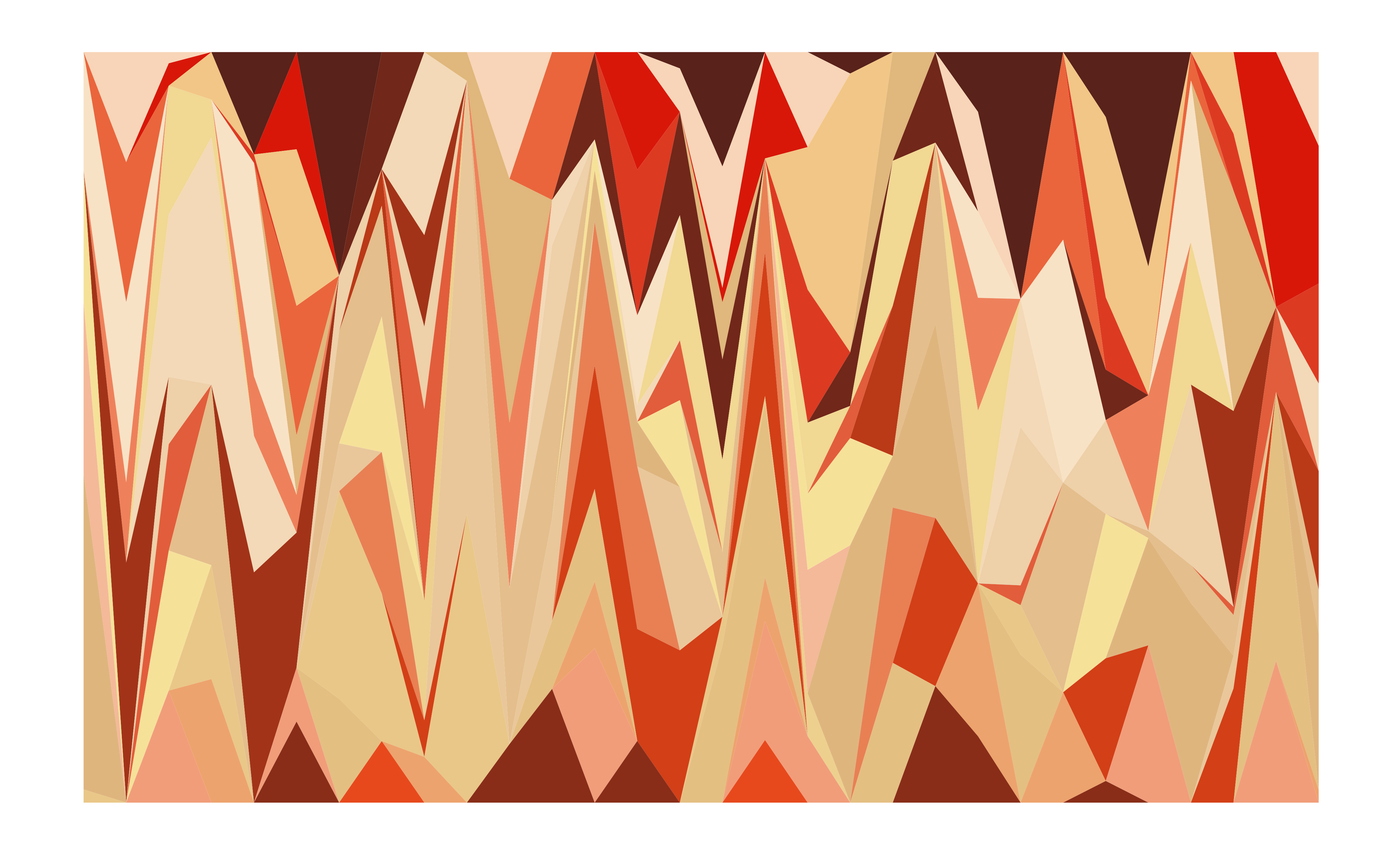
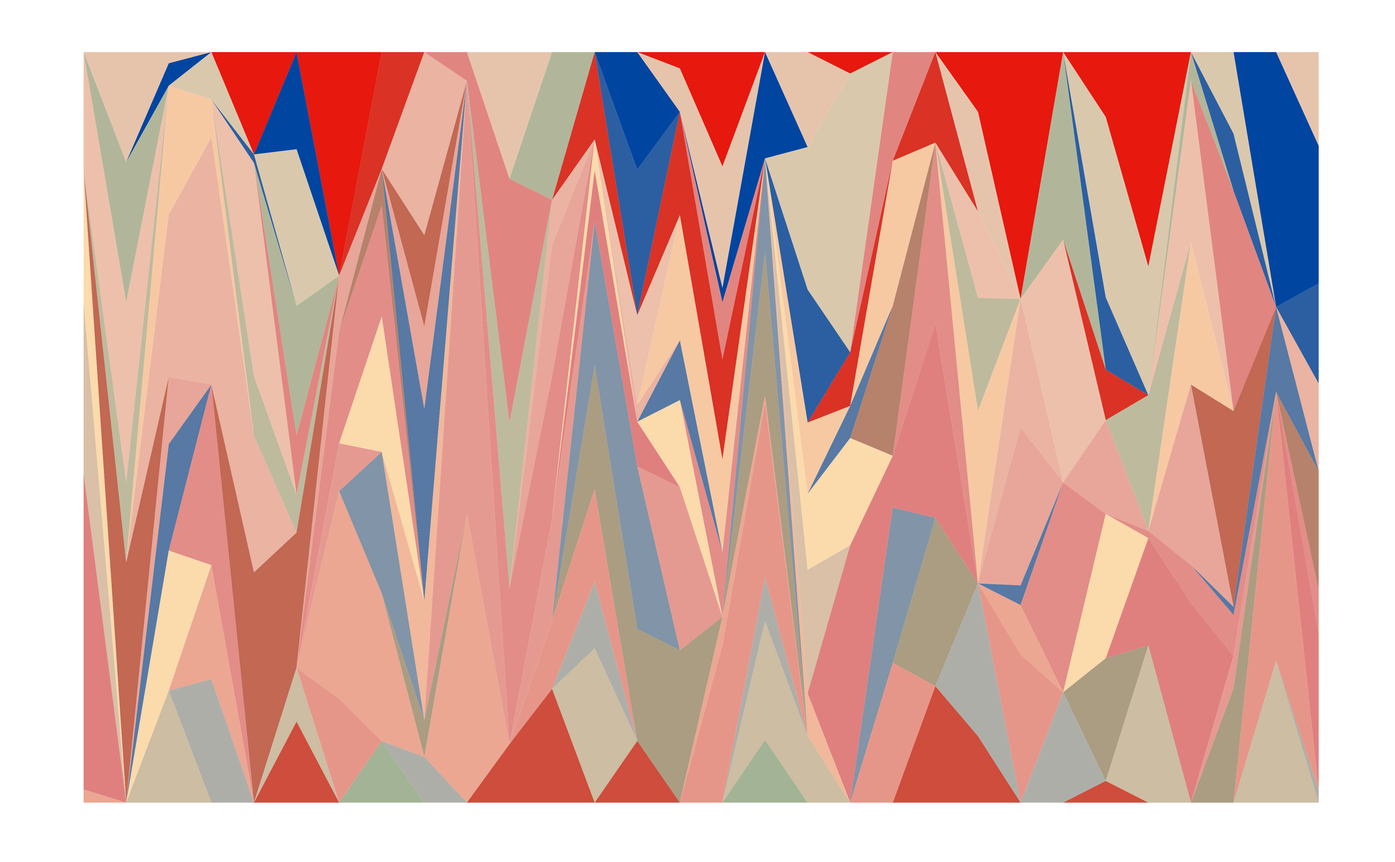
palettes

diff --git a/docs/articles/Introduction_to_R_series.html b/docs/articles/Introduction_to_R_series.html
@@ -96,8 +96,12 @@
 <div class="section level2">
 <h2 id="brief-explanation">Brief explanation<a class="anchor" aria-label="anchor" href="#brief-explanation"></a>
 </h2>
-<p>We can select until 3 palette families at the moment: <code>palette_netflyx</code>, <code>palette_anime</code>,<code>palette_peru</code>. Each family is a list of palette from series. Each palette in this package have a total of 6 colors. With the function <code>serie_palette</code> we can select a palette following this entry:</p>
-<p><code>serie_palette( enter name, palette of preference, number of colors, type discrete or continous )</code></p>
+<p>We can select until 3 palette families at the moment: <code>palette_netflyx</code>, <code>palette_anime</code>,<code>palette_peru</code>. Each family is a list of palette from series. Each palette in this package have a total of 6 colors. In brief the total list of palettes avaliable per family is :</p>
+<p><img src="Introduction_to_R_series_files/figure-html/unnamed-chunk-2-1.png" width="2187.5" style="display: block; margin: auto;"></p>
+<p><img src="Introduction_to_R_series_files/figure-html/unnamed-chunk-3-1.png" width="2187.5" style="display: block; margin: auto;"></p>
+<p><img src="Introduction_to_R_series_files/figure-html/unnamed-chunk-4-1.png" width="2187.5" style="display: block; margin: auto;"></p>
+<p>With the function <code>serie_palette</code> we can select a palette from a specific family following this entry:</p>
+<p><code>serie_palette( enter name, palette of preference, palette family ,number of colors, type discrete or continous )</code></p>
 <p>Let’s see some examples using ggplot2 based on <a href="https://r-graph-gallery.com/" class="external-link">the R Graph Gallery</a> examples.</p>
 <hr>
 </div>
@@ -128,7 +132,7 @@
   <span class="fu"><a href="https://ggplot2.tidyverse.org/reference/geom_path.html" class="external-link">geom_line</a></span><span class="op">(</span><span class="fu"><a href="https://ggplot2.tidyverse.org/reference/aes.html" class="external-link">aes</a></span><span class="op">(</span>color <span class="op">=</span> <span class="va">index</span>,x<span class="op">=</span><span class="va">time</span>,y<span class="op">=</span><span class="va">price</span><span class="op">)</span>, size <span class="op">=</span> <span class="fl">1</span><span class="op">)</span> <span class="op">+</span>
   <span class="fu"><a href="../reference/scale_color_rseries.html">scale_color_rseries</a></span><span class="op">(</span>palette <span class="op">=</span> <span class="st">"Lupin"</span>, palette_family <span class="op">=</span> <span class="va">palette_netflyx</span><span class="op">)</span> <span class="op">+</span>
   <span class="fu"><a href="https://ggplot2.tidyverse.org/reference/ggtheme.html" class="external-link">theme_minimal</a></span><span class="op">(</span><span class="op">)</span></code></pre></div>
-<p><img src="Introduction_to_R_series_files/figure-html/unnamed-chunk-2-1.png" width="2187.5" style="display: block; margin: auto;"></p>
+<p><img src="Introduction_to_R_series_files/figure-html/unnamed-chunk-6-1.png" width="2187.5" style="display: block; margin: auto;"></p>
 </div>
 <div class="section level6">
 <h6 id="a-classic-boxplot">A classic boxplot<a class="anchor" aria-label="anchor" href="#a-classic-boxplot"></a>
@@ -152,7 +156,7 @@
     <span class="op">)</span> <span class="op">+</span>
     <span class="fu"><a href="https://ggplot2.tidyverse.org/reference/labs.html" class="external-link">ggtitle</a></span><span class="op">(</span><span class="st">"A classic boxplot"</span><span class="op">)</span> <span class="op">+</span>
     <span class="fu"><a href="https://ggplot2.tidyverse.org/reference/labs.html" class="external-link">xlab</a></span><span class="op">(</span><span class="st">" "</span><span class="op">)</span></code></pre></div>
-<p><img src="Introduction_to_R_series_files/figure-html/unnamed-chunk-3-1.png" width="2187.5" style="display: block; margin: auto;"></p>
+<p><img src="Introduction_to_R_series_files/figure-html/unnamed-chunk-7-1.png" width="2187.5" style="display: block; margin: auto;"></p>
 </div>
 <div class="section level6">
 <h6 id="some-density-charts">Some density charts<a class="anchor" aria-label="anchor" href="#some-density-charts"></a>
@@ -171,7 +175,7 @@
       <span class="fu"><a href="../reference/scale_fill_rseries.html">scale_fill_rseries</a></span><span class="op">(</span>palette_family <span class="op">=</span> <span class="va">palette_netflyx</span>, palette <span class="op">=</span> <span class="st">"Lupin"</span><span class="op">)</span> <span class="op">+</span>
   <span class="fu"><a href="https://ggplot2.tidyverse.org/reference/ggtheme.html" class="external-link">theme_minimal</a></span><span class="op">(</span><span class="op">)</span>
 <span class="va">p1</span></code></pre></div>
-<p><img src="Introduction_to_R_series_files/figure-html/unnamed-chunk-4-1.png" width="2187.5" style="display: block; margin: auto;"></p>
+<p><img src="Introduction_to_R_series_files/figure-html/unnamed-chunk-8-1.png" width="2187.5" style="display: block; margin: auto;"></p>
 <div class="sourceCode" id="cb5"><pre class="downlit sourceCode r">
 <code class="sourceCode R"><span class="co"># Stacked density plot</span>
 <span class="va">p2</span> <span class="op">&lt;-</span> <span class="fu"><a href="https://ggplot2.tidyverse.org/reference/ggplot.html" class="external-link">ggplot</a></span><span class="op">(</span>data<span class="op">=</span><span class="va">diamonds</span>, <span class="fu"><a href="https://ggplot2.tidyverse.org/reference/aes.html" class="external-link">aes</a></span><span class="op">(</span>x<span class="op">=</span><span class="va">price</span>, group<span class="op">=</span><span class="va">cut</span>, fill<span class="op">=</span><span class="va">cut</span><span class="op">)</span><span class="op">)</span> <span class="op">+</span>
@@ -179,7 +183,7 @@
         <span class="fu"><a href="../reference/scale_fill_rseries.html">scale_fill_rseries</a></span><span class="op">(</span>palette_family <span class="op">=</span> <span class="va">palette_netflyx</span>, palette <span class="op">=</span> <span class="st">"Lupin"</span><span class="op">)</span> <span class="op">+</span>
     <span class="fu"><a href="https://ggplot2.tidyverse.org/reference/ggtheme.html" class="external-link">theme_minimal</a></span><span class="op">(</span><span class="op">)</span>
 <span class="va">p2</span></code></pre></div>
-<p><img src="Introduction_to_R_series_files/figure-html/unnamed-chunk-4-2.png" width="2187.5" style="display: block; margin: auto;"></p>
+<p><img src="Introduction_to_R_series_files/figure-html/unnamed-chunk-8-2.png" width="2187.5" style="display: block; margin: auto;"></p>
 </div>
 <div class="section level6">
 <h6 id="some-data-art">Some data art<a class="anchor" aria-label="anchor" href="#some-data-art"></a>
@@ -221,7 +225,7 @@
     legend.position<span class="op">=</span><span class="st">"none"</span>,
     panel.border <span class="op">=</span> <span class="fu"><a href="https://ggplot2.tidyverse.org/reference/element.html" class="external-link">element_blank</a></span><span class="op">(</span><span class="op">)</span>,
     panel.background <span class="op">=</span> <span class="fu"><a href="https://ggplot2.tidyverse.org/reference/element.html" class="external-link">element_blank</a></span><span class="op">(</span><span class="op">)</span><span class="op">)</span></code></pre></div>
-<p><img src="Introduction_to_R_series_files/figure-html/unnamed-chunk-5-1.png" width="2187.5" style="display: block; margin: auto;"></p>
+<p><img src="Introduction_to_R_series_files/figure-html/unnamed-chunk-9-1.png" width="2187.5" style="display: block; margin: auto;"></p>
 <hr>
 <hr>
 </div>
@@ -245,7 +249,7 @@
   <span class="fu"><a href="https://ggplot2.tidyverse.org/reference/geom_path.html" class="external-link">geom_line</a></span><span class="op">(</span><span class="fu"><a href="https://ggplot2.tidyverse.org/reference/aes.html" class="external-link">aes</a></span><span class="op">(</span>color <span class="op">=</span> <span class="va">index</span>,x<span class="op">=</span><span class="va">time</span>,y<span class="op">=</span><span class="va">price</span><span class="op">)</span>, size <span class="op">=</span> <span class="fl">1</span><span class="op">)</span> <span class="op">+</span>
   <span class="fu"><a href="../reference/scale_color_rseries.html">scale_color_rseries</a></span><span class="op">(</span>palette <span class="op">=</span> <span class="st">"poputepik"</span>, palette_family <span class="op">=</span> <span class="va">palette_anime</span><span class="op">)</span> <span class="op">+</span>
   <span class="fu"><a href="https://ggplot2.tidyverse.org/reference/ggtheme.html" class="external-link">theme_minimal</a></span><span class="op">(</span><span class="op">)</span></code></pre></div>
-<p><img src="Introduction_to_R_series_files/figure-html/unnamed-chunk-6-1.png" width="2187.5" style="display: block; margin: auto;"></p>
+<p><img src="Introduction_to_R_series_files/figure-html/unnamed-chunk-10-1.png" width="2187.5" style="display: block; margin: auto;"></p>
 </div>
 <div class="section level6">
 <h6 id="a-classic-boxplot-1">A classic boxplot<a class="anchor" aria-label="anchor" href="#a-classic-boxplot-1"></a>
@@ -276,7 +280,7 @@
     <span class="op">)</span> <span class="op">+</span>
     <span class="fu"><a href="https://ggplot2.tidyverse.org/reference/labs.html" class="external-link">ggtitle</a></span><span class="op">(</span><span class="st">"A classic boxplot"</span><span class="op">)</span> <span class="op">+</span>
     <span class="fu"><a href="https://ggplot2.tidyverse.org/reference/labs.html" class="external-link">xlab</a></span><span class="op">(</span><span class="st">""</span><span class="op">)</span></code></pre></div>
-<p><img src="Introduction_to_R_series_files/figure-html/unnamed-chunk-7-1.png" width="2187.5" style="display: block; margin: auto;"></p>
+<p><img src="Introduction_to_R_series_files/figure-html/unnamed-chunk-11-1.png" width="2187.5" style="display: block; margin: auto;"></p>
 </div>
 <div class="section level6">
 <h6 id="some-density-charts-1">Some density charts<a class="anchor" aria-label="anchor" href="#some-density-charts-1"></a>
@@ -297,7 +301,7 @@
   <span class="fu"><a href="https://ggplot2.tidyverse.org/reference/scale_manual.html" class="external-link">scale_fill_manual</a></span><span class="op">(</span>values<span class="op">=</span><span class="op">(</span><span class="va">pal</span><span class="op">)</span><span class="op">)</span><span class="op">+</span>
   <span class="fu"><a href="https://ggplot2.tidyverse.org/reference/ggtheme.html" class="external-link">theme_minimal</a></span><span class="op">(</span><span class="op">)</span>
 <span class="va">p1</span></code></pre></div>
-<p><img src="Introduction_to_R_series_files/figure-html/unnamed-chunk-8-1.png" width="2187.5" style="display: block; margin: auto;"></p>
+<p><img src="Introduction_to_R_series_files/figure-html/unnamed-chunk-12-1.png" width="2187.5" style="display: block; margin: auto;"></p>
 <div class="sourceCode" id="cb10"><pre class="downlit sourceCode r">
 <code class="sourceCode R"><span class="co"># Stacked density plot</span>
 <span class="va">p2</span> <span class="op">&lt;-</span> <span class="fu"><a href="https://ggplot2.tidyverse.org/reference/ggplot.html" class="external-link">ggplot</a></span><span class="op">(</span>data<span class="op">=</span><span class="va">diamonds</span>, <span class="fu"><a href="https://ggplot2.tidyverse.org/reference/aes.html" class="external-link">aes</a></span><span class="op">(</span>x<span class="op">=</span><span class="va">price</span>, group<span class="op">=</span><span class="va">cut</span>, fill<span class="op">=</span><span class="va">cut</span><span class="op">)</span><span class="op">)</span> <span class="op">+</span>
@@ -305,7 +309,7 @@
     <span class="fu"><a href="https://ggplot2.tidyverse.org/reference/scale_manual.html" class="external-link">scale_fill_manual</a></span><span class="op">(</span>values<span class="op">=</span><span class="op">(</span><span class="va">pal</span><span class="op">)</span><span class="op">)</span> <span class="op">+</span>
     <span class="fu"><a href="https://ggplot2.tidyverse.org/reference/ggtheme.html" class="external-link">theme_minimal</a></span><span class="op">(</span><span class="op">)</span>
 <span class="va">p2</span></code></pre></div>
-<p><img src="Introduction_to_R_series_files/figure-html/unnamed-chunk-8-2.png" width="2187.5" style="display: block; margin: auto;"></p>
+<p><img src="Introduction_to_R_series_files/figure-html/unnamed-chunk-12-2.png" width="2187.5" style="display: block; margin: auto;"></p>
 </div>
 <div class="section level6">
 <h6 id="some-data-art-1">Some data art<a class="anchor" aria-label="anchor" href="#some-data-art-1"></a>
@@ -347,7 +351,7 @@
     legend.position<span class="op">=</span><span class="st">"none"</span>,
     panel.border <span class="op">=</span> <span class="fu"><a href="https://ggplot2.tidyverse.org/reference/element.html" class="external-link">element_blank</a></span><span class="op">(</span><span class="op">)</span>,
     panel.background <span class="op">=</span> <span class="fu"><a href="https://ggplot2.tidyverse.org/reference/element.html" class="external-link">element_blank</a></span><span class="op">(</span><span class="op">)</span><span class="op">)</span></code></pre></div>
-<p><img src="Introduction_to_R_series_files/figure-html/unnamed-chunk-9-1.png" width="2187.5" style="display: block; margin: auto;"></p>
+<p><img src="Introduction_to_R_series_files/figure-html/unnamed-chunk-13-1.png" width="2187.5" style="display: block; margin: auto;"></p>
 <hr>
 </div>
 </div>
@@ -366,7 +370,7 @@
   <span class="fu"><a href="https://ggplot2.tidyverse.org/reference/geom_path.html" class="external-link">geom_line</a></span><span class="op">(</span><span class="fu"><a href="https://ggplot2.tidyverse.org/reference/aes.html" class="external-link">aes</a></span><span class="op">(</span>color <span class="op">=</span> <span class="va">index</span>,x<span class="op">=</span><span class="va">time</span>,y<span class="op">=</span><span class="va">price</span><span class="op">)</span>, size <span class="op">=</span> <span class="fl">1</span><span class="op">)</span> <span class="op">+</span>
   <span class="fu"><a href="../reference/scale_color_rseries.html">scale_color_rseries</a></span><span class="op">(</span>palette <span class="op">=</span> <span class="st">"tokyorev"</span>, palette_family <span class="op">=</span> <span class="va">palette_anime</span><span class="op">)</span> <span class="op">+</span>
   <span class="fu"><a href="https://ggplot2.tidyverse.org/reference/ggtheme.html" class="external-link">theme_minimal</a></span><span class="op">(</span><span class="op">)</span></code></pre></div>
-<p><img src="Introduction_to_R_series_files/figure-html/unnamed-chunk-10-1.png" width="2187.5" style="display: block; margin: auto;"></p>
+<p><img src="Introduction_to_R_series_files/figure-html/unnamed-chunk-14-1.png" width="2187.5" style="display: block; margin: auto;"></p>
 </div>
 <div class="section level6">
 <h6 id="a-classic-boxplot-2">A classic boxplot<a class="anchor" aria-label="anchor" href="#a-classic-boxplot-2"></a>
@@ -397,7 +401,7 @@
     <span class="op">)</span> <span class="op">+</span>
     <span class="fu"><a href="https://ggplot2.tidyverse.org/reference/labs.html" class="external-link">ggtitle</a></span><span class="op">(</span><span class="st">"A classic boxplot"</span><span class="op">)</span> <span class="op">+</span>
     <span class="fu"><a href="https://ggplot2.tidyverse.org/reference/labs.html" class="external-link">xlab</a></span><span class="op">(</span><span class="st">""</span><span class="op">)</span></code></pre></div>
-<p><img src="Introduction_to_R_series_files/figure-html/unnamed-chunk-11-1.png" width="2187.5" style="display: block; margin: auto;"></p>
+<p><img src="Introduction_to_R_series_files/figure-html/unnamed-chunk-15-1.png" width="2187.5" style="display: block; margin: auto;"></p>
 </div>
 <div class="section level6">
 <h6 id="some-density-charts-2">Some density charts<a class="anchor" aria-label="anchor" href="#some-density-charts-2"></a>
@@ -418,7 +422,7 @@
   <span class="fu"><a href="https://ggplot2.tidyverse.org/reference/scale_manual.html" class="external-link">scale_fill_manual</a></span><span class="op">(</span>values<span class="op">=</span><span class="op">(</span><span class="va">pal</span><span class="op">)</span><span class="op">)</span><span class="op">+</span>
   <span class="fu"><a href="https://ggplot2.tidyverse.org/reference/ggtheme.html" class="external-link">theme_minimal</a></span><span class="op">(</span><span class="op">)</span>
 <span class="va">p1</span></code></pre></div>
-<p><img src="Introduction_to_R_series_files/figure-html/unnamed-chunk-12-1.png" width="2187.5" style="display: block; margin: auto;"></p>
+<p><img src="Introduction_to_R_series_files/figure-html/unnamed-chunk-16-1.png" width="2187.5" style="display: block; margin: auto;"></p>
 <div class="sourceCode" id="cb15"><pre class="downlit sourceCode r">
 <code class="sourceCode R"><span class="co"># Stacked density plot</span>
 <span class="va">p2</span> <span class="op">&lt;-</span> <span class="fu"><a href="https://ggplot2.tidyverse.org/reference/ggplot.html" class="external-link">ggplot</a></span><span class="op">(</span>data<span class="op">=</span><span class="va">diamonds</span>, <span class="fu"><a href="https://ggplot2.tidyverse.org/reference/aes.html" class="external-link">aes</a></span><span class="op">(</span>x<span class="op">=</span><span class="va">price</span>, group<span class="op">=</span><span class="va">cut</span>, fill<span class="op">=</span><span class="va">cut</span><span class="op">)</span><span class="op">)</span> <span class="op">+</span>
@@ -426,7 +430,7 @@
     <span class="fu"><a href="https://ggplot2.tidyverse.org/reference/scale_manual.html" class="external-link">scale_fill_manual</a></span><span class="op">(</span>values<span class="op">=</span><span class="op">(</span><span class="va">pal</span><span class="op">)</span><span class="op">)</span> <span class="op">+</span>
     <span class="fu"><a href="https://ggplot2.tidyverse.org/reference/ggtheme.html" class="external-link">theme_minimal</a></span><span class="op">(</span><span class="op">)</span>
 <span class="va">p2</span></code></pre></div>
-<p><img src="Introduction_to_R_series_files/figure-html/unnamed-chunk-12-2.png" width="2187.5" style="display: block; margin: auto;"></p>
+<p><img src="Introduction_to_R_series_files/figure-html/unnamed-chunk-16-2.png" width="2187.5" style="display: block; margin: auto;"></p>
 </div>
 <div class="section level6">
 <h6 id="some-data-art-2">Some data art<a class="anchor" aria-label="anchor" href="#some-data-art-2"></a>
@@ -468,7 +472,7 @@
     legend.position<span class="op">=</span><span class="st">"none"</span>,
     panel.border <span class="op">=</span> <span class="fu"><a href="https://ggplot2.tidyverse.org/reference/element.html" class="external-link">element_blank</a></span><span class="op">(</span><span class="op">)</span>,
     panel.background <span class="op">=</span> <span class="fu"><a href="https://ggplot2.tidyverse.org/reference/element.html" class="external-link">element_blank</a></span><span class="op">(</span><span class="op">)</span><span class="op">)</span></code></pre></div>
-<p><img src="Introduction_to_R_series_files/figure-html/unnamed-chunk-13-1.png" width="2187.5" style="display: block; margin: auto;"></p>
+<p><img src="Introduction_to_R_series_files/figure-html/unnamed-chunk-17-1.png" width="2187.5" style="display: block; margin: auto;"></p>
 <hr>
 </div>
 </div>
@@ -487,7 +491,7 @@
   <span class="fu"><a href="https://ggplot2.tidyverse.org/reference/geom_path.html" class="external-link">geom_line</a></span><span class="op">(</span><span class="fu"><a href="https://ggplot2.tidyverse.org/reference/aes.html" class="external-link">aes</a></span><span class="op">(</span>color <span class="op">=</span> <span class="va">index</span>,x<span class="op">=</span><span class="va">time</span>,y<span class="op">=</span><span class="va">price</span><span class="op">)</span>, size <span class="op">=</span> <span class="fl">1</span><span class="op">)</span> <span class="op">+</span>
   <span class="fu"><a href="../reference/scale_color_rseries.html">scale_color_rseries</a></span><span class="op">(</span>palette <span class="op">=</span> <span class="st">"yona"</span>, palette_family <span class="op">=</span> <span class="va">palette_anime</span><span class="op">)</span> <span class="op">+</span>
   <span class="fu"><a href="https://ggplot2.tidyverse.org/reference/ggtheme.html" class="external-link">theme_minimal</a></span><span class="op">(</span><span class="op">)</span></code></pre></div>
-<p><img src="Introduction_to_R_series_files/figure-html/unnamed-chunk-14-1.png" width="2187.5" style="display: block; margin: auto;"></p>
+<p><img src="Introduction_to_R_series_files/figure-html/unnamed-chunk-18-1.png" width="2187.5" style="display: block; margin: auto;"></p>
 </div>
 <div class="section level6">
 <h6 id="a-classic-boxplot-3">A classic boxplot<a class="anchor" aria-label="anchor" href="#a-classic-boxplot-3"></a>
@@ -518,7 +522,7 @@
     <span class="op">)</span> <span class="op">+</span>
     <span class="fu"><a href="https://ggplot2.tidyverse.org/reference/labs.html" class="external-link">ggtitle</a></span><span class="op">(</span><span class="st">"A classic boxplot"</span><span class="op">)</span> <span class="op">+</span>
     <span class="fu"><a href="https://ggplot2.tidyverse.org/reference/labs.html" class="external-link">xlab</a></span><span class="op">(</span><span class="st">""</span><span class="op">)</span></code></pre></div>
-<p><img src="Introduction_to_R_series_files/figure-html/unnamed-chunk-15-1.png" width="2187.5" style="display: block; margin: auto;"></p>
+<p><img src="Introduction_to_R_series_files/figure-html/unnamed-chunk-19-1.png" width="2187.5" style="display: block; margin: auto;"></p>
 </div>
 <div class="section level6">
 <h6 id="some-density-charts-3">Some density charts<a class="anchor" aria-label="anchor" href="#some-density-charts-3"></a>
@@ -539,7 +543,7 @@
   <span class="fu"><a href="https://ggplot2.tidyverse.org/reference/scale_manual.html" class="external-link">scale_fill_manual</a></span><span class="op">(</span>values<span class="op">=</span><span class="op">(</span><span class="va">pal</span><span class="op">)</span><span class="op">)</span><span class="op">+</span>
   <span class="fu"><a href="https://ggplot2.tidyverse.org/reference/ggtheme.html" class="external-link">theme_minimal</a></span><span class="op">(</span><span class="op">)</span>
 <span class="va">p1</span></code></pre></div>
-<p><img src="Introduction_to_R_series_files/figure-html/unnamed-chunk-16-1.png" width="2187.5" style="display: block; margin: auto;"></p>
+<p><img src="Introduction_to_R_series_files/figure-html/unnamed-chunk-20-1.png" width="2187.5" style="display: block; margin: auto;"></p>
 <div class="sourceCode" id="cb20"><pre class="downlit sourceCode r">
 <code class="sourceCode R"><span class="co"># Stacked density plot</span>
 <span class="va">p2</span> <span class="op">&lt;-</span> <span class="fu"><a href="https://ggplot2.tidyverse.org/reference/ggplot.html" class="external-link">ggplot</a></span><span class="op">(</span>data<span class="op">=</span><span class="va">diamonds</span>, <span class="fu"><a href="https://ggplot2.tidyverse.org/reference/aes.html" class="external-link">aes</a></span><span class="op">(</span>x<span class="op">=</span><span class="va">price</span>, group<span class="op">=</span><span class="va">cut</span>, fill<span class="op">=</span><span class="va">cut</span><span class="op">)</span><span class="op">)</span> <span class="op">+</span>
@@ -547,7 +551,7 @@
     <span class="fu"><a href="https://ggplot2.tidyverse.org/reference/scale_manual.html" class="external-link">scale_fill_manual</a></span><span class="op">(</span>values<span class="op">=</span><span class="op">(</span><span class="va">pal</span><span class="op">)</span><span class="op">)</span> <span class="op">+</span>
     <span class="fu"><a href="https://ggplot2.tidyverse.org/reference/ggtheme.html" class="external-link">theme_minimal</a></span><span class="op">(</span><span class="op">)</span>
 <span class="va">p2</span></code></pre></div>
-<p><img src="Introduction_to_R_series_files/figure-html/unnamed-chunk-16-2.png" width="2187.5" style="display: block; margin: auto;"></p>
+<p><img src="Introduction_to_R_series_files/figure-html/unnamed-chunk-20-2.png" width="2187.5" style="display: block; margin: auto;"></p>
 </div>
 <div class="section level6">
 <h6 id="some-data-art-3">Some data art<a class="anchor" aria-label="anchor" href="#some-data-art-3"></a>
@@ -589,7 +593,7 @@
     legend.position<span class="op">=</span><span class="st">"none"</span>,
     panel.border <span class="op">=</span> <span class="fu"><a href="https://ggplot2.tidyverse.org/reference/element.html" class="external-link">element_blank</a></span><span class="op">(</span><span class="op">)</span>,
     panel.background <span class="op">=</span> <span class="fu"><a href="https://ggplot2.tidyverse.org/reference/element.html" class="external-link">element_blank</a></span><span class="op">(</span><span class="op">)</span><span class="op">)</span></code></pre></div>
-<p><img src="Introduction_to_R_series_files/figure-html/unnamed-chunk-17-1.png" width="2187.5" style="display: block; margin: auto;"></p>
+<p><img src="Introduction_to_R_series_files/figure-html/unnamed-chunk-21-1.png" width="2187.5" style="display: block; margin: auto;"></p>
 <hr>
 </div>
 </div>
@@ -604,7 +608,7 @@
   <span class="fu"><a href="../reference/scale_fill_rseries.html">scale_fill_rseries</a></span><span class="op">(</span><span class="op">)</span><span class="op">+</span>
   <span class="fu"><a href="https://ggplot2.tidyverse.org/reference/ggtheme.html" class="external-link">theme_bw</a></span><span class="op">(</span><span class="op">)</span> <span class="op">+</span>
   <span class="fu"><a href="https://ggplot2.tidyverse.org/reference/labs.html" class="external-link">ggtitle</a></span><span class="op">(</span><span class="st">'scale_fill_rseries()'</span><span class="op">)</span></code></pre></div>
-<p><img src="Introduction_to_R_series_files/figure-html/unnamed-chunk-18-1.png" width="2187.5" style="display: block; margin: auto;"></p>
+<p><img src="Introduction_to_R_series_files/figure-html/unnamed-chunk-22-1.png" width="2187.5" style="display: block; margin: auto;"></p>
 <div class="sourceCode" id="cb23"><pre class="downlit sourceCode r">
 <code class="sourceCode R"><span class="va">EuStockMarkets</span> <span class="op"><a href="https://magrittr.tidyverse.org/reference/pipe.html" class="external-link">%&gt;%</a></span>
   <span class="fu"><a href="https://rdrr.io/r/base/as.data.frame.html" class="external-link">as.data.frame</a></span><span class="op">(</span><span class="op">)</span> <span class="op"><a href="https://magrittr.tidyverse.org/reference/pipe.html" class="external-link">%&gt;%</a></span>
@@ -614,7 +618,7 @@
   <span class="fu"><a href="https://ggplot2.tidyverse.org/reference/geom_path.html" class="external-link">geom_line</a></span><span class="op">(</span><span class="fu"><a href="https://ggplot2.tidyverse.org/reference/aes.html" class="external-link">aes</a></span><span class="op">(</span>color <span class="op">=</span> <span class="va">index</span>,x<span class="op">=</span><span class="va">time</span>,y<span class="op">=</span><span class="va">price</span><span class="op">)</span>, size <span class="op">=</span> <span class="fl">1</span><span class="op">)</span> <span class="op">+</span>
   <span class="fu"><a href="../reference/scale_color_rseries.html">scale_color_rseries</a></span><span class="op">(</span>palette <span class="op">=</span> <span class="st">"poke"</span>,palette_family <span class="op">=</span> <span class="va">palette_anime</span><span class="op">)</span>  <span class="op">+</span>
   <span class="fu"><a href="https://ggplot2.tidyverse.org/reference/ggtheme.html" class="external-link">theme_minimal</a></span><span class="op">(</span><span class="op">)</span></code></pre></div>
-<p><img src="Introduction_to_R_series_files/figure-html/unnamed-chunk-19-1.png" width="2187.5" style="display: block; margin: auto;"></p>
+<p><img src="Introduction_to_R_series_files/figure-html/unnamed-chunk-23-1.png" width="2187.5" style="display: block; margin: auto;"></p>
 </div>
   </main><aside class="col-md-3"><nav id="toc"><h2>On this page</h2>
     </nav></aside>

diff --git a/docs/reference/show_pal.html b/docs/reference/show_pal.html
@@ -1,0 +1,92 @@
+<!DOCTYPE html>
+<!-- Generated by pkgdown: do not edit by hand --><html lang="en"><head><meta http-equiv="Content-Type" content="text/html; charset=UTF-8"><meta charset="utf-8"><meta http-equiv="X-UA-Compatible" content="IE=edge"><meta name="viewport" content="width=device-width, initial-scale=1, shrink-to-fit=no"><meta name="description" content="function to show all the avaliable palettes in a specific family ."><title>function to show all the avaliable palettes in a specific family . — show_pal • Rseries</title><!-- favicons --><link rel="icon" type="image/png" sizes="16x16" href="../favicon-16x16.png"><link rel="icon" type="image/png" sizes="32x32" href="../favicon-32x32.png"><link rel="apple-touch-icon" type="image/png" sizes="180x180" href="../apple-touch-icon.png"><link rel="apple-touch-icon" type="image/png" sizes="120x120" href="../apple-touch-icon-120x120.png"><link rel="apple-touch-icon" type="image/png" sizes="76x76" href="../apple-touch-icon-76x76.png"><link rel="apple-touch-icon" type="image/png" sizes="60x60" href="../apple-touch-icon-60x60.png"><script src="../deps/jquery-3.6.0/jquery-3.6.0.min.js"></script><meta name="viewport" content="width=device-width, initial-scale=1, shrink-to-fit=no"><link href="../deps/bootstrap-5.1.0/bootstrap.min.css" rel="stylesheet"><script src="../deps/bootstrap-5.1.0/bootstrap.bundle.min.js"></script><!-- Font Awesome icons --><link rel="stylesheet" href="https://cdnjs.cloudflare.com/ajax/libs/font-awesome/5.12.1/css/all.min.css" integrity="sha256-mmgLkCYLUQbXn0B1SRqzHar6dCnv9oZFPEC1g1cwlkk=" crossorigin="anonymous"><link rel="stylesheet" href="https://cdnjs.cloudflare.com/ajax/libs/font-awesome/5.12.1/css/v4-shims.min.css" integrity="sha256-wZjR52fzng1pJHwx4aV2AO3yyTOXrcDW7jBpJtTwVxw=" crossorigin="anonymous"><!-- bootstrap-toc --><script src="https://cdn.rawgit.com/afeld/bootstrap-toc/v1.0.1/dist/bootstrap-toc.min.js"></script><!-- headroom.js --><script src="https://cdnjs.cloudflare.com/ajax/libs/headroom/0.11.0/headroom.min.js" integrity="sha256-AsUX4SJE1+yuDu5+mAVzJbuYNPHj/WroHuZ8Ir/CkE0=" crossorigin="anonymous"></script><script src="https://cdnjs.cloudflare.com/ajax/libs/headroom/0.11.0/jQuery.headroom.min.js" integrity="sha256-ZX/yNShbjqsohH1k95liqY9Gd8uOiE1S4vZc+9KQ1K4=" crossorigin="anonymous"></script><!-- clipboard.js --><script src="https://cdnjs.cloudflare.com/ajax/libs/clipboard.js/2.0.6/clipboard.min.js" integrity="sha256-inc5kl9MA1hkeYUt+EC3BhlIgyp/2jDIyBLS6k3UxPI=" crossorigin="anonymous"></script><!-- search --><script src="https://cdnjs.cloudflare.com/ajax/libs/fuse.js/6.4.6/fuse.js" integrity="sha512-zv6Ywkjyktsohkbp9bb45V6tEMoWhzFzXis+LrMehmJZZSys19Yxf1dopHx7WzIKxr5tK2dVcYmaCk2uqdjF4A==" crossorigin="anonymous"></script><script src="https://cdnjs.cloudflare.com/ajax/libs/autocomplete.js/0.38.0/autocomplete.jquery.min.js" integrity="sha512-GU9ayf+66Xx2TmpxqJpliWbT5PiGYxpaG8rfnBEk1LL8l1KGkRShhngwdXK1UgqhAzWpZHSiYPc09/NwDQIGyg==" crossorigin="anonymous"></script><script src="https://cdnjs.cloudflare.com/ajax/libs/mark.js/8.11.1/mark.min.js" integrity="sha512-5CYOlHXGh6QpOFA/TeTylKLWfB3ftPsde7AnmhuitiTX4K5SqCLBeKro6sPS8ilsz1Q4NRx3v8Ko2IBiszzdww==" crossorigin="anonymous"></script><!-- pkgdown --><script src="../pkgdown.js"></script><meta property="og:title" content="function to show all the avaliable palettes in a specific family . — show_pal"><meta property="og:description" content="function to show all the avaliable palettes in a specific family ."><meta property="og:image" content="https://diognes.github.io/Rseries/logo.png"><!-- mathjax --><script src="https://cdnjs.cloudflare.com/ajax/libs/mathjax/2.7.5/MathJax.js" integrity="sha256-nvJJv9wWKEm88qvoQl9ekL2J+k/RWIsaSScxxlsrv8k=" crossorigin="anonymous"></script><script src="https://cdnjs.cloudflare.com/ajax/libs/mathjax/2.7.5/config/TeX-AMS-MML_HTMLorMML.js" integrity="sha256-84DKXVJXs0/F8OTMzX4UR909+jtl4G7SPypPavF+GfA=" crossorigin="anonymous"></script><!--[if lt IE 9]>
+<script src="https://oss.maxcdn.com/html5shiv/3.7.3/html5shiv.min.js"></script>
+<script src="https://oss.maxcdn.com/respond/1.4.2/respond.min.js"></script>
+<![endif]--></head><body>
+    <a href="#main" class="visually-hidden-focusable">Skip to contents</a>
+    
+
+    <nav class="navbar fixed-top navbar-dark navbar-expand-lg bg-primary"><div class="container">
+    
+    <a class="navbar-brand me-2" href="../index.html">Rseries</a>
+
+    <small class="nav-text text-muted me-auto" data-bs-toggle="tooltip" data-bs-placement="bottom" title="">0.0.1</small>
+
+    
+    <button class="navbar-toggler" type="button" data-bs-toggle="collapse" data-bs-target="#navbar" aria-controls="navbar" aria-expanded="false" aria-label="Toggle navigation">
+      <span class="navbar-toggler-icon"></span>
+    </button>
+
+    <div id="navbar" class="collapse navbar-collapse ms-3">
+      <ul class="navbar-nav me-auto"><li class="active nav-item">
+  <a class="nav-link" href="../reference/index.html">Reference</a>
+</li>
+<li class="nav-item dropdown">
+  <a href="#" class="nav-link dropdown-toggle" data-bs-toggle="dropdown" role="button" aria-expanded="false" aria-haspopup="true" id="dropdown-articles">Articles</a>
+  <div class="dropdown-menu" aria-labelledby="dropdown-articles">
+    <a class="dropdown-item" href="../articles/Introduction_to_R_series.html">Introduction to Rseries</a>
+    <a class="dropdown-item" href="../articles/palette_samples.html">Palettes in R series</a>
+  </div>
+</li>
+<li class="nav-item">
+  <a class="nav-link" href="../news/index.html">Changelog</a>
+</li>
+      </ul><form class="form-inline my-2 my-lg-0" role="search">
+        <input type="search" class="form-control me-sm-2" aria-label="Toggle navigation" name="search-input" data-search-index="../search.json" id="search-input" placeholder="Search for" autocomplete="off"></form>
+
+      <ul class="navbar-nav"><li class="nav-item">
+  <a class="external-link nav-link" href="https://github.com/diognes" aria-label="Personal website">Diognes</a>
+</li>
+<li class="nav-item">
+  <a class="external-link nav-link" href="https://github.com/diognes/Rseries/" aria-label="github">
+    <span class="fab fa fab fa-github fa-lg"></span>
+     
+  </a>
+</li>
+      </ul></div>
+
+    
+  </div>
+</nav><div class="container template-reference-topic">
+<div class="row">
+  <main id="main" class="col-md-9"><div class="page-header">
+      <img src="../logo.png" class="logo" alt=""><h1>function to show all the avaliable palettes in a specific family .</h1>
+      <small class="dont-index">Source: <a href="https://github.com/diognes/Rseries/blob/HEAD/R/serie_palette.R" class="external-link"><code>R/serie_palette.R</code></a></small>
+      <div class="d-none name"><code>show_pal.Rd</code></div>
+    </div>
+
+    <div class="ref-description section level2">
+    <p>function to show all the avaliable palettes in a specific family .</p>
+    </div>
+
+    <div class="section level2">
+    <h2 id="ref-usage">Usage<a class="anchor" aria-label="anchor" href="#ref-usage"></a></h2>
+    <div class="sourceCode"><pre class="sourceCode r"><code><span class="fu">show_pal</span><span class="op">(</span>
+  name <span class="op">=</span> <span class="st">"all"</span>,
+  palette_family <span class="op">=</span> <span class="va">palette_netflyx</span>,
+  n <span class="op">=</span> <span class="fl">6</span>,
+  rev <span class="op">=</span> <span class="cn">TRUE</span>,
+  <span class="va">...</span>
+<span class="op">)</span></code></pre></div>
+    </div>
+
+
+  </main></div>
+
+
+    <footer><div class="pkgdown-footer-left">
+  <p></p><p>Developed by Jesus Quispe-Quispe, Rodrigo Norabuena Mascaraqui, Giancarlo Liñan Cuenca.</p>
+</div>
+
+<div class="pkgdown-footer-right">
+  <p></p><p>Site built with <a href="https://pkgdown.r-lib.org/" class="external-link">pkgdown</a> 2.0.2.</p>
+</div>
+
+    </footer></div>
+
+  
+
+  
+
+  </body></html>
+

diff --git a/docs/articles/palette_samples.html b/docs/articles/palette_samples.html
@@ -95,7 +95,7 @@
 <div class="section level2">
 <h2 id="a-showcase-of-some-palettes">A showcase of some palettes<a class="anchor" aria-label="anchor" href="#a-showcase-of-some-palettes"></a>
 </h2>
-<p>Rseries contains beauty palettes to personalize plots with the style of series of plataforms like Netflyx, Amazon Prime or local TV from Latin American Countries. The avaliable palettes are :</p>
+<p>Rseries contains beauty palettes to personalize plots with the style of series of plataforms like Netflyx, Crunchyroll(Anime) or local TV from Latin American Countries like Peru. The total list of palettes are :</p>
 <div class="section level3">
 <h3 id="netflyx-family-palettes">Netflyx family palettes<a class="anchor" aria-label="anchor" href="#netflyx-family-palettes"></a>
 </h3>

diff --git a/docs/reference/index.html b/docs/reference/index.html
@@ -99,6 +99,11 @@
           <code><a href="serie_palette.html">serie_palette()</a></code> 
         </dt>
         <dd>Series Palette Generator.</dd>
+      </dl><dl><dt>
+          
+          <code><a href="show_pal.html">show_pal()</a></code> 
+        </dt>
+        <dd>function to show all the avaliable palettes in a specific family .</dd>
       </dl></div>
   </main></div>
 

diff --git a/docs/reference/palette_peru.html b/docs/reference/palette_peru.html
@@ -66,7 +66,7 @@
 
     <div class="section level2">
     <h2 id="format">Format<a class="anchor" aria-label="anchor" href="#format"></a></h2>
-    <p>An object of class <code>list</code> of length 1.</p>
+    <p>An object of class <code>list</code> of length 8.</p>
     </div>
 
   </main><aside class="col-md-3"><nav id="toc"><h2>On this page</h2>
